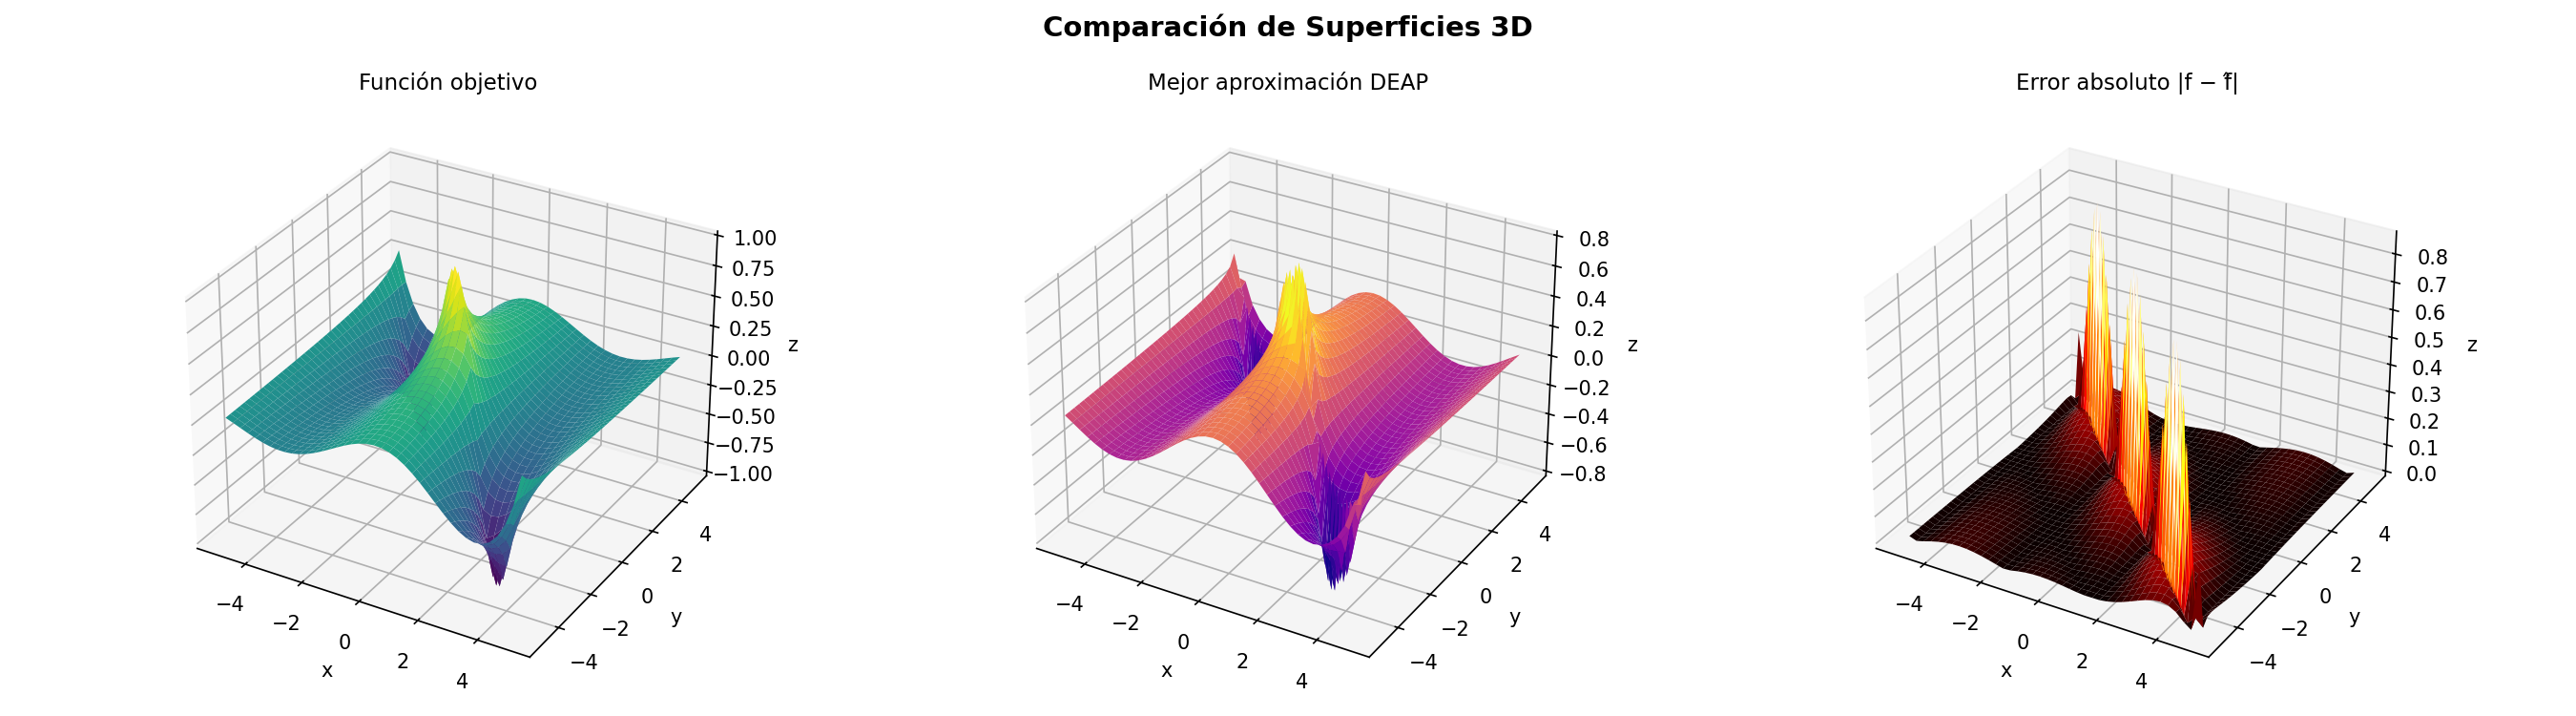
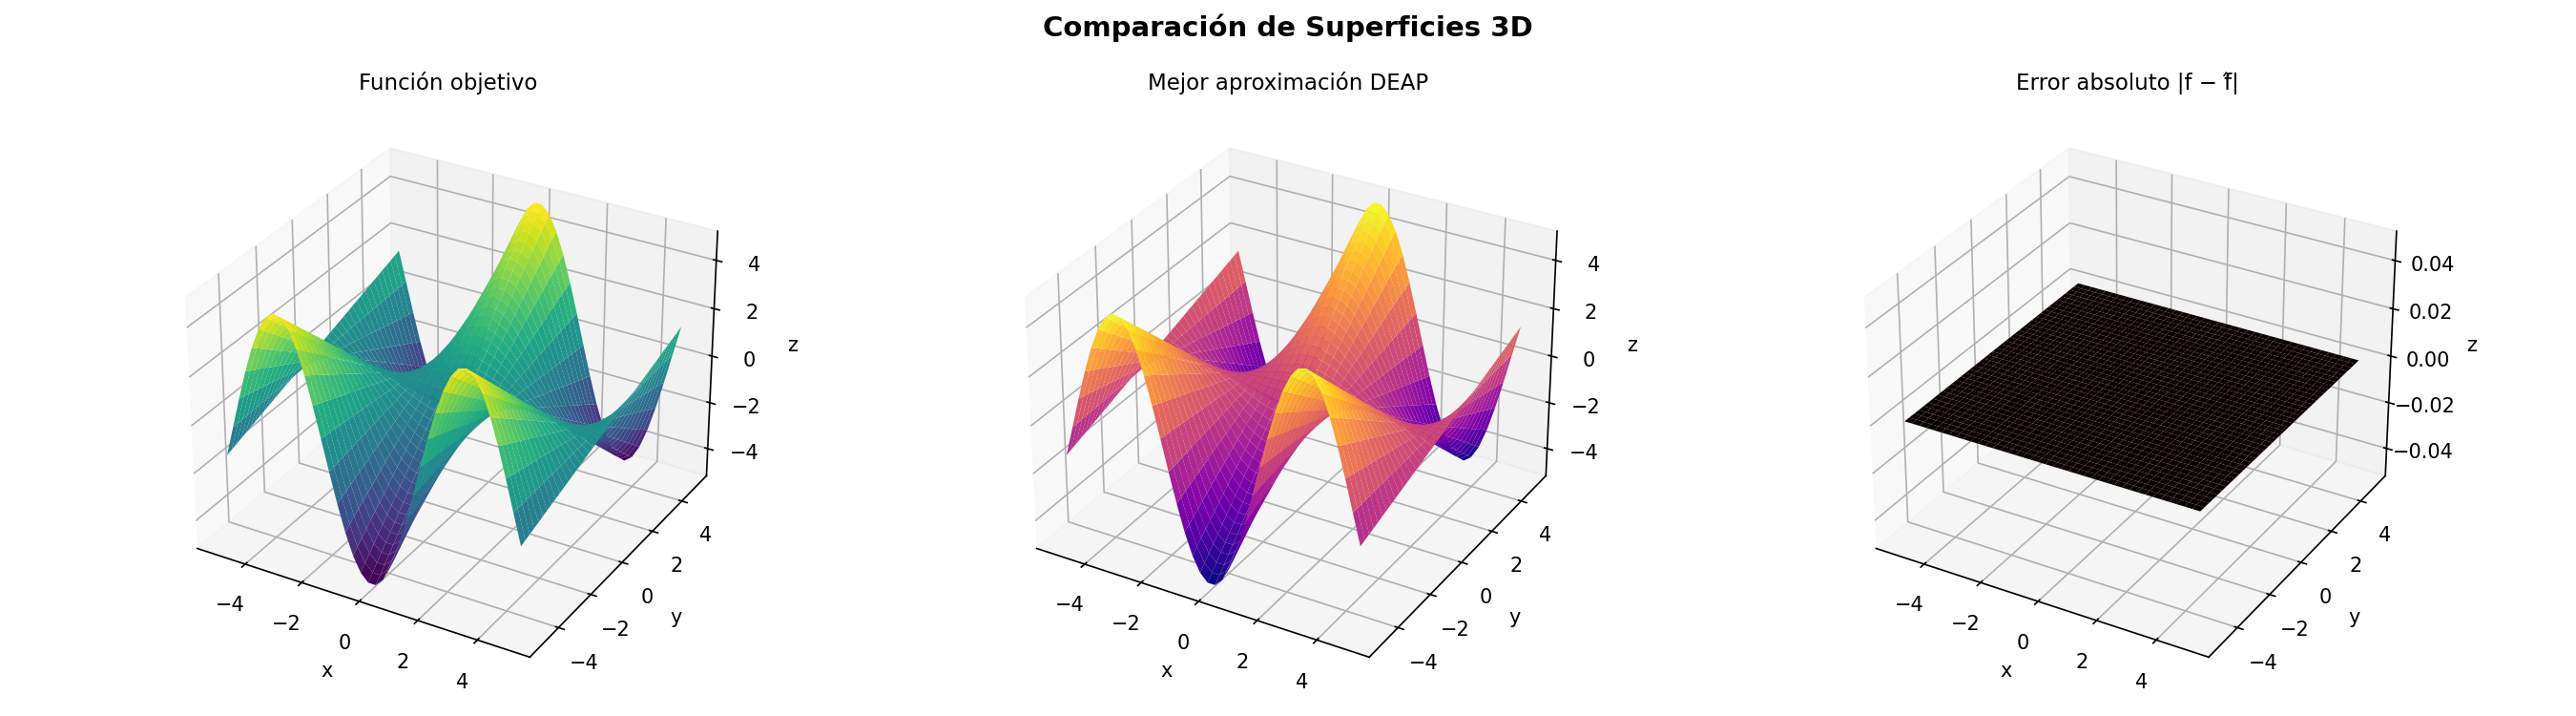
v1.6

diff --git a/main_DEAP.py b/main_DEAP.py
@@ -61,7 +61,7 @@ _EVAL_Y = np.array([y / 10.0 for x in EVAL_RANGE for y in EVAL_RANGE])
 _TARGET_VALUES = None  # se inicializa al cargar la función objetivo
 
 # Semilla para reproducibilidad
-RANDOM_SEED          = random.randint(0, 100000)
+RANDOM_SEED          = 42 # random.randint(0, 100000)
 
 
 # ══════════════════════════════════════════════════════════════
@@ -1038,6 +1038,7 @@ if QT_AVAILABLE:
 
             controls = QtWidgets.QFrame()
             controls.setFrameShape(QtWidgets.QFrame.Shape.StyledPanel)
+            controls.setFont(QtGui.QFont("Segoe UI", 15))
             controls.setMinimumWidth(360)
             control_layout = QtWidgets.QVBoxLayout(controls)
 
@@ -1058,12 +1059,13 @@ if QT_AVAILABLE:
             # ── Parámetros del algoritmo ──────────────────────────
             params_group = QtWidgets.QGroupBox("Parámetros del algoritmo")
             params_group.setStyleSheet(
-                "QGroupBox { font-weight: 600; border: 1px solid #374151; border-radius: 6px; margin-top: 8px; padding-top: 6px; }"
+                "QGroupBox { font-weight: 600; border: 1px solid #374151; border-radius: 6px; margin-top: 20px; padding-top: 6px; }"
                 "QGroupBox::title { subcontrol-origin: margin; left: 10px; padding: 0 4px; }"
             )
+            params_group.setFont(QtGui.QFont("Segoe UI", 15))
             params_form = QtWidgets.QFormLayout(params_group)
             params_form.setLabelAlignment(QtCore.Qt.AlignmentFlag.AlignRight)
-            params_form.setSpacing(6)
+            params_form.setSpacing(12)
 
             def _spin_int(value, lo, hi, step=1, tooltip=""):
                 w = QtWidgets.QSpinBox()
@@ -1139,7 +1141,23 @@ if QT_AVAILABLE:
 
             self.summary_text = QtWidgets.QPlainTextEdit()
             self.summary_text.setReadOnly(True)
-            self.summary_text.setFont(QtGui.QFont("Courier New", 9))
+            self.summary_text.setFont(QtGui.QFont("Courier New", 15))
+
+            sumary_text_desc = QtWidgets.QLabel(
+                "<b>Reporte detallado de la ejecución</b><br>"
+                "Incluye el mejor individuo encontrado, su expresión simbólica simplificada, métricas de calidad y un resumen de la evolución por generación.<br>"
+                "Consulta la pestaña 'Evolución' para estadísticas detalladas por generación."
+            )
+            sumary_text_desc.setWordWrap(True)
+            sumary_text_desc.setTextFormat(QtCore.Qt.TextFormat.RichText)
+            sumary_text_desc.setFont(QtGui.QFont("Arial", 15))
+            sumary_text_desc.setStyleSheet("padding: 8px; background: #1e293b; border-radius: 4px; color: #cbd5e1;")
+
+            summary_text_widget = QtWidgets.QWidget()
+            summary_text_layout = QtWidgets.QVBoxLayout(summary_text_widget)
+            summary_text_layout.setContentsMargins(0, 0, 0, 0)
+            summary_text_layout.addWidget(sumary_text_desc)
+            summary_text_layout.addWidget(self.summary_text, 1)
 
             self.evolution_table = QtWidgets.QTableWidget()
             self.evolution_table.setEditTriggers(QtWidgets.QAbstractItemView.EditTrigger.NoEditTriggers)
@@ -1159,6 +1177,7 @@ if QT_AVAILABLE:
             )
             evo_table_desc.setWordWrap(True)
             evo_table_desc.setTextFormat(QtCore.Qt.TextFormat.RichText)
+            evo_table_desc.setFont(QtGui.QFont("Arial", 15))
             evo_table_desc.setStyleSheet("padding: 8px; background: #1e293b; border-radius: 4px; color: #cbd5e1;")
 
             evo_table_widget = QtWidgets.QWidget()
@@ -1167,11 +1186,12 @@ if QT_AVAILABLE:
             evo_table_layout.addWidget(evo_table_desc)
             evo_table_layout.addWidget(self.evolution_table, 1)
 
-            self.summary_tabs.addTab(self.summary_text, "Reporte")
+            self.summary_tabs.addTab(summary_text_widget, "Reporte")
             self.summary_tabs.addTab(evo_table_widget, "Evolución")
 
             self.metrics_text = QtWidgets.QPlainTextEdit()
             self.metrics_text.setReadOnly(True)
+            self.metrics_text.setFont(QtGui.QFont("Courier New", 15))
 
             metrics_desc = QtWidgets.QLabel(
                 "<b>Métricas de calidad del mejor individuo encontrado</b><br>"
@@ -1184,6 +1204,7 @@ if QT_AVAILABLE:
             )
             metrics_desc.setWordWrap(True)
             metrics_desc.setTextFormat(QtCore.Qt.TextFormat.RichText)
+            metrics_desc.setFont(QtGui.QFont("Arial", 15))
             metrics_desc.setStyleSheet("padding: 8px; background: #1e293b; border-radius: 4px; color: #cbd5e1;")
 
             metrics_widget = QtWidgets.QWidget()
@@ -1201,6 +1222,7 @@ if QT_AVAILABLE:
                 desc = QtWidgets.QLabel(title_html)
                 desc.setWordWrap(True)
                 desc.setTextFormat(QtCore.Qt.TextFormat.RichText)
+                desc.setFont(QtGui.QFont("Arial", 15))
                 desc.setStyleSheet("padding: 8px; background: #1e293b; border-radius: 4px; color: #cbd5e1;")
                 vl.addWidget(desc)
                 vl.addWidget(view_widget, 1)
@@ -1263,6 +1285,7 @@ if QT_AVAILABLE:
             help_text = QtWidgets.QLabel()
             help_text.setWordWrap(True)
             help_text.setTextFormat(QtCore.Qt.TextFormat.RichText)
+            help_text.setFont(QtGui.QFont("Arial", 13))
             help_text.setAlignment(QtCore.Qt.AlignmentFlag.AlignTop | QtCore.Qt.AlignmentFlag.AlignLeft)
             help_text.setText("""
 <h2 style="color:#60a5fa;">Regresión Simbólica con DEAP — Guía de uso</h2>